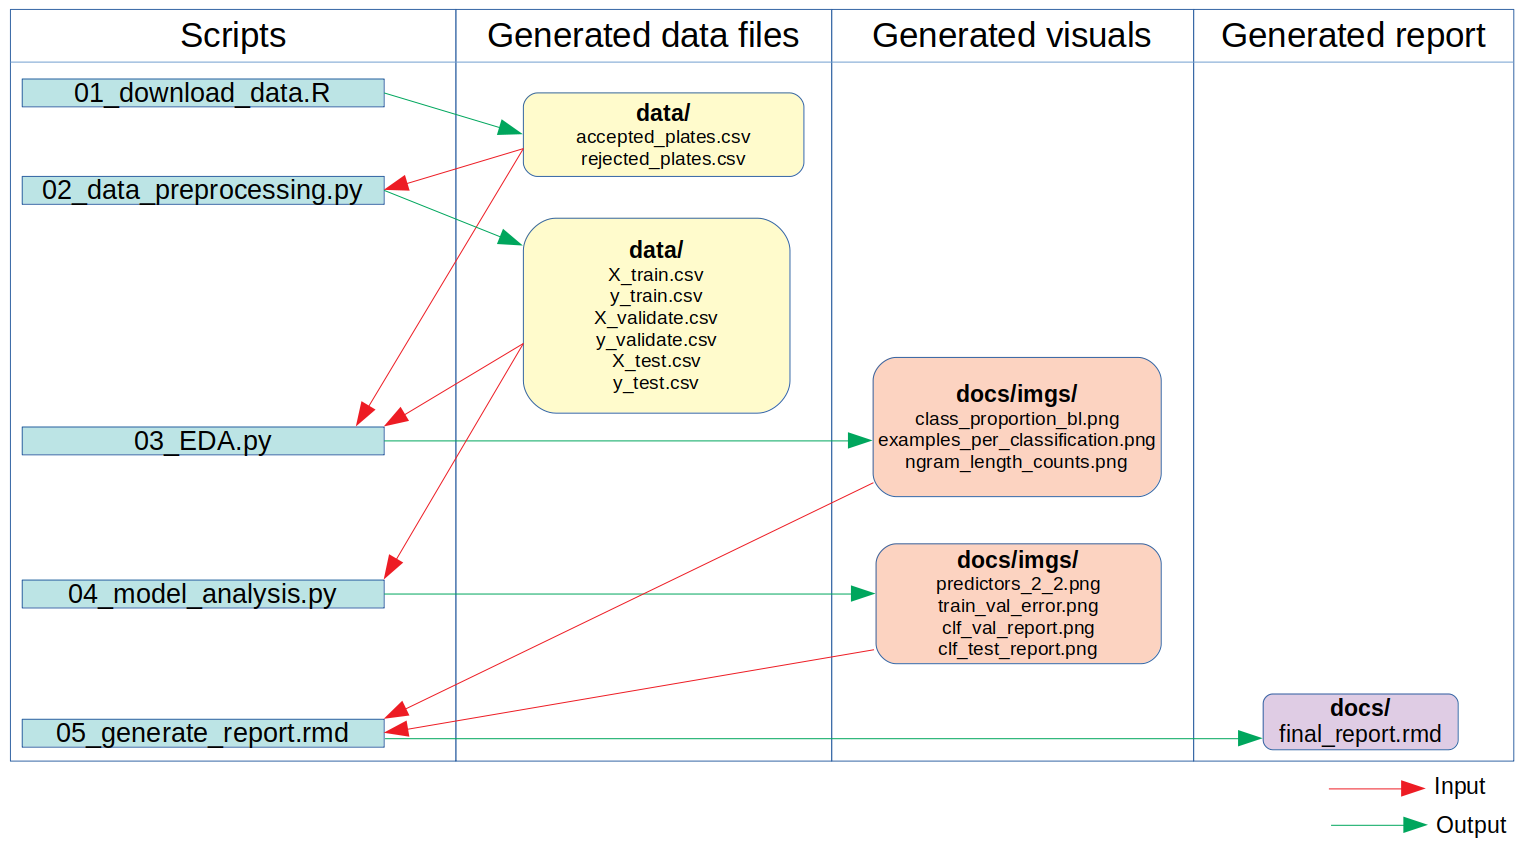
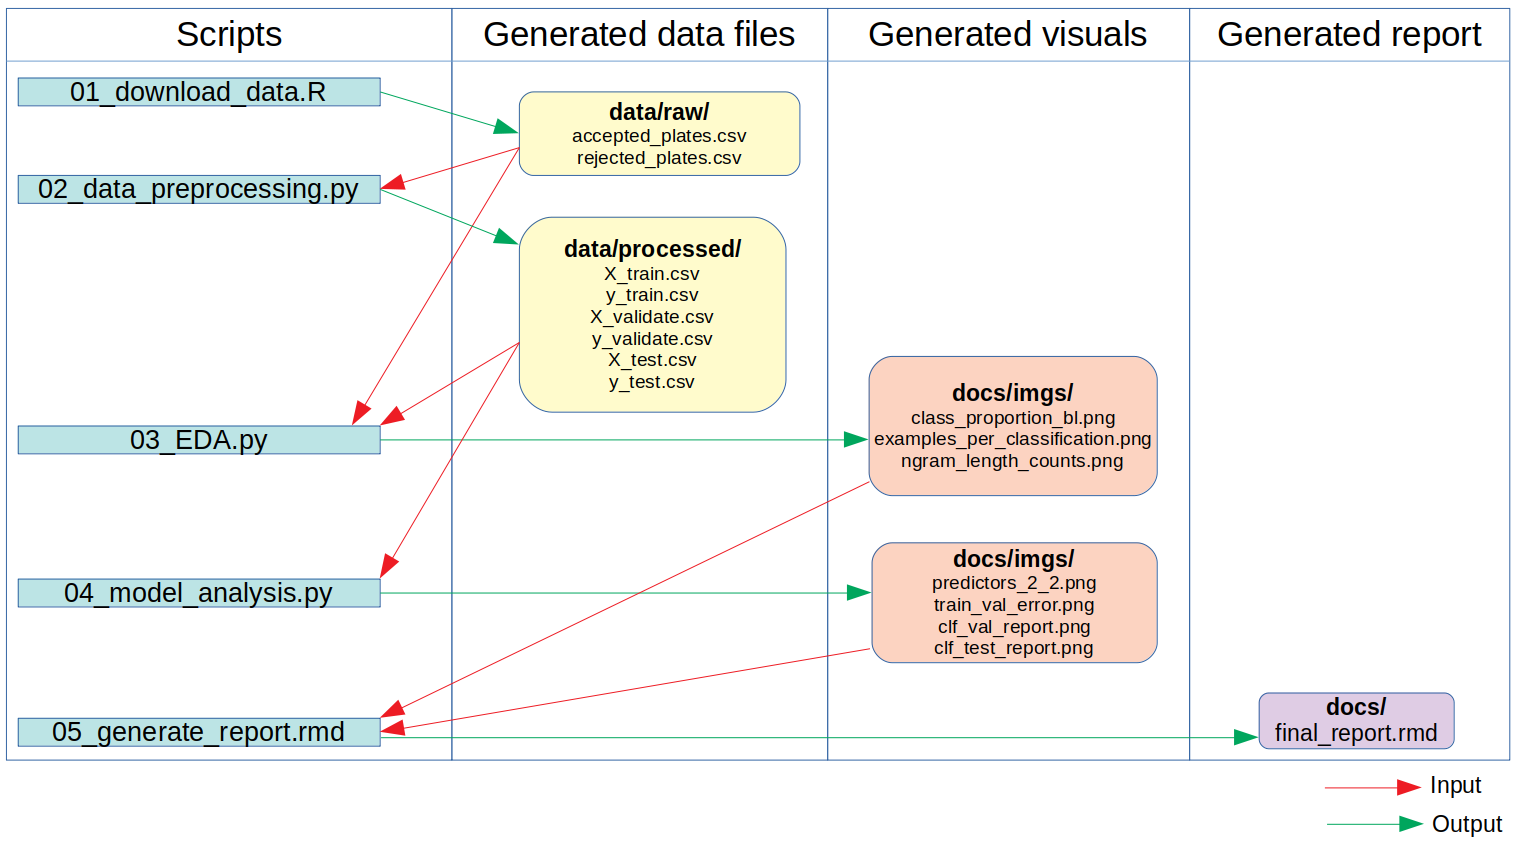
updates to scripts to reference different data folders, strongest predictors, visualizations

diff --git a/scripts/04_data_model.py b/scripts/04_data_model.py
@@ -34,7 +34,7 @@ opt = docopt(__doc__)
 def main(file_path_read, filename_x_train, filename_x_validate, filename_x_test, filename_y_train, filename_y_validate, filename_y_test, file_path_write):
   
     # Read csv files of X and y components of data
-    # file_path_read = 'data/'
+    # file_path_read = 'data/processed/'
     # filename_x_train = 'X_train.csv'
     # filename_x_validate = 'X_validate.csv'
     # filename_x_test = 'X_test.csv'
@@ -43,7 +43,7 @@ def main(file_path_read, filename_x_train, filename_x_validate, filename_x_test,
     # filename_y_test = 'y_test.csv'
     # file_path_write = 'results/'
     
-    # command line usage: python scripts/04_data_model.py --file_path_read="data/" --filename_x_train="X_train.csv" --filename_x_validate="X_validate.csv" --filename_x_test="X_test.csv" --filename_y_train="y_train.csv" --filename_y_validate="y_validate.csv" --filename_y_test="y_test.csv" --filename_path_write="results/"
+    # command line usage: python scripts/04_data_model.py --file_path_read="data/processed/" --filename_x_train="X_train.csv" --filename_x_validate="X_validate.csv" --filename_x_test="X_test.csv" --filename_y_train="y_train.csv" --filename_y_validate="y_validate.csv" --filename_y_test="y_test.csv" --filename_path_write="results/"
     
     # read the training, testing, and validation data
     X_train = np.squeeze(pd.read_csv(file_path_read+filename_x_train, index_col=0))
@@ -55,6 +55,14 @@ def main(file_path_read, filename_x_train, filename_x_validate, filename_x_test,
     y_validate = np.squeeze(pd.read_csv(
         file_path_read+filename_y_validate, index_col=0))
     y_test = np.squeeze(pd.read_csv(file_path_read+filename_y_test, index_col=0))
+    
+    # Test that data read in is correct to reproduce results
+    assert X_train.shape == (2332,), "X_train is incorrect shape"
+    assert sum(X_train.index) == 87392513, "X_train has incorrect observations"
+    assert y_train.shape == (2332,), "y_train is incorrect shape"
+    assert X_validate.shape == (584,), "X_validate has incorrect shape"
+    assert sum(X_validate.index) == 21381421, "X_validate has correct observations"
+    assert y_validate.shape == (584,),"y_validate has incorrect shape"
 
 
     pipeline = Pipeline(steps=[
@@ -99,22 +107,28 @@ def main(file_path_read, filename_x_train, filename_x_validate, filename_x_test,
     line = alt.Chart(tr_v_plot_df).mark_line().encode(
         x = alt.X('Number of Features:Q'),
         y = alt.Y('value:Q', title = 'Accuracy score'),
-        color = 'variable:N'
+        color = alt.Color('variable:N', legend = alt.Legend(title = "", orient = 'bottom'))
         )
 
     point = alt.Chart(tr_v_plot_df).mark_point().encode(
         x = alt.X('Number of Features:Q'),
         y = alt.Y('value:Q', title = 'Accuracy score'),
-        color = 'variable:N'
+        color = alt.Color('variable:N', legend = alt.Legend(title = ""))
         )
 
-    text = alt.Chart(tr_v_plot_df.query('variable == "Cross-Val Training error (cv = 10)"')).mark_text(dy = 13).encode(
+    text = alt.Chart(tr_v_plot_df.query('variable == "Cross-Val Training error (cv = 10)"')
+    ).mark_text(dy = 13
+    ).encode(
         x = alt.X('Number of Features:Q'),
         y = alt.Y('value:Q', title = 'Accuracy score'),
         text = alt.Text('n-gram_range:N'))
 
-    (line + point + text).properties(width = 700,
-         background = 'white').save(file_path_write + 'train_val_error.png', scale_factor = 2)
+    (line + point + text).configure_axis(labelFontSize=15,titleFontSize=15
+        ).configure_header(labelFontSize=15
+        ).configure_title(fontSize=20, anchor = 'middle'
+        ).properties(width = 700,
+         background = 'white', title = 'Training and Validation Error by n-gram Range and Number of Features'
+         ).save(file_path_write + 'train_val_error.png', scale_factor = 2)
 
     # Train model with chosen n-gram length range (2,2)
     cv_mnb = CountVectorizer(analyzer = 'char', ngram_range = (2,2))
@@ -127,7 +141,7 @@ def main(file_path_read, filename_x_train, filename_x_validate, filename_x_test,
 
     clf_val_report = classification_report(
     y_validate, mnb.predict(X_val_t), output_dict=True)
-    clf_val_report_df = pd.DataFrame(clf_val_report).transpose()
+    clf_val_report_df = pd.DataFrame(clf_val_report).transpose().round(3)
     clf_val_report_df = clf_val_report_df.iloc[:3, :-1]
 
     # export cl_val_report_df and predictor_df as image file
@@ -141,7 +155,7 @@ def main(file_path_read, filename_x_train, filename_x_validate, filename_x_test,
     # Test scores
     clf_test_report = classification_report(
     y_test, mnb.predict(X_test_t), output_dict=True)
-    clf_test_report_df = pd.DataFrame(clf_test_report).transpose()
+    clf_test_report_df = pd.DataFrame(clf_test_report).transpose().round(3)
     clf_test_report_df = clf_test_report_df.iloc[:3, :-1]
     clf_test_report_df
 
@@ -155,6 +169,8 @@ def main(file_path_read, filename_x_train, filename_x_validate, filename_x_test,
     # Export tables with strongest predictors for various n-gram ranges
     ng_l_best = [(2,2), (3,3), (4,4)]
 
+    ng_l_best = [(2,2)]
+    
     for ng in ng_l_best:
         cv_mnb = CountVectorizer(analyzer = 'char', ngram_range = ng)
         X_train_t = cv_mnb.fit_transform(X_train)
@@ -165,24 +181,19 @@ def main(file_path_read, filename_x_train, filename_x_validate, filename_x_test,
         vocab = cv_mnb.get_feature_names()
         weights = mnb.coef_.flatten()
         feat_df = pd.DataFrame({'features':vocab, 'weights':weights})
-        # Find most negative weight
-        least_coef = min(feat_df['weights'])
-        # check how many features share that weight
-        print("Number of features tied for strongest predictor:", len(feat_df.query('weights == '+str(least_coef))))
-        negative = feat_df.query('weights == '+str(least_coef))[['features']].sample(n = 50, random_state = 415).reset_index(drop=True)
-        #negative = negative.sample(n = 50).reset_index(drop=True)
-        features_100 = pd.concat([negative.iloc[:10].reset_index(drop = True),
-            negative.iloc[10:20].reset_index(drop = True),
-            negative.iloc[20:30].reset_index(drop = True),
-            negative.iloc[30:40].reset_index(drop = True),
-            negative.iloc[40:50].reset_index(drop = True)], axis = 1)
-        file_name_html = file_path_write + 'predictors'+str(ng)[1]+'_'+str(ng)[-2]+'.html'
+        # Find most positive weight (where 'accepted' is the negative class, and 'rejected' is positive)
+        max_coef = max(feat_df['weights'])
+        positive = feat_df.sort_values(by = 'weights', ascending = False)['features'].head(50).reset_index(drop = True)
+        features_50 = pd.concat([positive.iloc[:10].reset_index(drop = True),
+            positive.iloc[10:20].reset_index(drop = True),
+            positive.iloc[20:30].reset_index(drop = True),
+            positive.iloc[30:40].reset_index(drop = True),
+            positive.iloc[40:50].reset_index(drop = True)], axis = 1)
+        file_name_html = file_path_write + 'predictors_'+str(ng)[1]+'_'+str(ng)[-2]+'.html'
         file_name_png = file_path_write + 'predictors_'+str(ng)[1]+'_'+str(ng)[-2]+'.png'
-        features_100.to_html(file_name_html, index = False, header = False)
+        features_50.to_html(file_name_html, index = False, header = False)
         subprocess.call(
-            ['wkhtmltoimage -f png --width 0 ' + file_name_html + " " + file_name_png], shell=True)
-
-    
+             ['wkhtmltoimage -f png --width 0 ' + file_name_html + " " + file_name_png], shell=True)
   
 if __name__ == "__main__":
     main(opt["--file_path_read"],

diff --git a/scripts/03_EDA.py b/scripts/03_EDA.py
@@ -15,10 +15,11 @@
   folder. 
 
 
-Usage: scripts/03_EDA.py --file_path_data=<file_path_data> --accepted_plates_csv=<accepted_plates_csv> --rejected_plates_csv=<rejected_plates_csv> --reduced_plate_csv=<reduced_plate_csv> --X_train_csv=<X_train_csv> --y_train_csv=<y_train_csv> --file_path_img=<file_path_img>
+Usage: scripts/03_EDA.py --file_path_raw=<file_path_data> --file_path_pro=<file_path_pro> --accepted_plates_csv=<accepted_plates_csv> --rejected_plates_csv=<rejected_plates_csv> --reduced_plate_csv=<reduced_plate_csv> --X_train_csv=<X_train_csv> --y_train_csv=<y_train_csv> --file_path_img=<file_path_img>
 
 Options:
---file_path_data=<file_path_data>  Path to data folder of .csv files
+--file_path_raw=<file_path_data>  Path to raw data folder of .csv files
+--file_path_pro=<file_path_pro> Path to processed data folder
 --accepted_plates_csv=<accepted_plates_csv> filename of .csv with all accepted plates
 --rejected_plates_csv=<rejected_plates_csv> filename of .csv with all negative plates
 --reduced_plate_csv=<reduced_plate_csv> filename of .csv of undersampled accepted plates combined with rejected plates
@@ -27,7 +28,8 @@ Options:
 --file_path_img=<file_path_img> filepath to folder where images should be stored
 '''
 
-# file_path_data = 'data/'
+# file_path_raw = 'data/raw/'
+# file_path_pro='data/processed/'
 # accepted_plates_csv = 'accepted_plates.csv'
 # rejected_plates_csv = 'rejected_plates.csv'
 # reduced_plate_csv = 'full_vanity_plate_data.csv'
@@ -47,13 +49,13 @@ from docopt import docopt
 
 opt = docopt(__doc__)
 
-def main(file_path_data, accepted_plates_csv, rejected_plates_csv, reduced_plate_csv, X_train_csv, y_train_csv, file_path_img):
+def main(file_path_raw, file_path_pro, accepted_plates_csv, rejected_plates_csv, reduced_plate_csv, X_train_csv, y_train_csv, file_path_img):
     # Load datasets
-    full_rejected = pd.read_csv(file_path_data + rejected_plates_csv)
-    full_accepted = pd.read_csv(file_path_data + accepted_plates_csv)
-    reduced_plate_df=pd.read_csv(file_path_data + reduced_plate_csv)
-    X_train = pd.read_csv(file_path_data + X_train_csv, usecols = ['plate'])
-    y_train = pd.read_csv(file_path_data + y_train_csv, usecols = ['outcome'])
+    full_rejected = pd.read_csv(file_path_raw + rejected_plates_csv)
+    full_accepted = pd.read_csv(file_path_raw + accepted_plates_csv)
+    reduced_plate_df=pd.read_csv(file_path_pro + reduced_plate_csv)
+    X_train = pd.read_csv(file_path_pro + X_train_csv, usecols = ['plate'])
+    y_train = pd.read_csv(file_path_pro + y_train_csv, usecols = ['outcome'])
 
     # Transform X_train dataset using countvectorizer
     cv = CountVectorizer(analyzer = 'char', ngram_range=(2,8))
@@ -63,7 +65,7 @@ def main(file_path_data, accepted_plates_csv, rejected_plates_csv, reduced_plate
     # fit and transform X_train via CountVectorizer
     X_train_transformed = cv.fit_transform(X_train['plate'])
     # Make sure transformed data is correct shape
-    assert X_train_transformed.shape == (2332, 25889), 'sparse matrix should be of shape 2332 x 25889'
+    assert X_train_transformed.shape == (2332, 25889), 'sparse matrix should be of shape 2332 x 25889 to reproduce results'
 
     # Explore full dataset of all rejected and accepted plates
     # Create outcome column
@@ -96,16 +98,16 @@ def main(file_path_data, accepted_plates_csv, rejected_plates_csv, reduced_plate
 
     n_g_len_chart = (alt.Chart(counts.query('ng_length%2 == 0')).mark_bar().encode(
             x = alt.X('counts:O', 
-                title = "Frequency of appearance in plates"),
+                title = "Frequency of given ngram in training data"),
                 #scale=alt.Scale(domain = (0,89))),
-            y = alt.Y("count()", scale=alt.Scale(type='log', base=10), title = 'Count'),
+            y = alt.Y("count()", scale=alt.Scale(type='log', base=10), title = 'Ngrams with X Freq.'),
             facet = alt.Facet('ng_length:N', title = 'n-gram length')
-        ).configure_axis(labelFontSize=15,titleFontSize=20
-        ).configure_header(labelFontSize=14
+        ).configure_axis(labelFontSize=15,titleFontSize=10
+        ).configure_header(labelFontSize=15
         ).configure_title(fontSize=20, anchor = 'middle'
-        ).properties(title = "Counts of n-grams by length", 
+        ).properties(title = "Counts of n-gram frequency by length", 
                     width = 400, 
-                    height = 70, 
+                    height = 80, 
                     columns = 1,
                     background = 'white'))
 
@@ -184,7 +186,8 @@ def p_chart_grid(df, i):
                     height = 200, title = "Length "+i))
                 
 if __name__ == "__main__":
-    main(opt["--file_path_data"], 
+    main(opt["--file_path_raw"],
+    opt["--file_path_pro"],
     opt["--accepted_plates_csv"], 
     opt["--rejected_plates_csv"], 
     opt["--reduced_plate_csv"],

diff --git a/scripts/02_data_processing.py b/scripts/02_data_processing.py
@@ -9,10 +9,11 @@
  a file_path for the .csv data files, 2 filenames for the 
  unprocessed data and a filename for the reduced dataset.
 
-Usage: scripts/02_data_processing.py --file_path=<file_path> --accepted_plates_csv=<accepted_plates_csv> --rejected_plates_csv=<rejected_plates_csv> --reduced_plates_csv=<reduced_plates_csv> 
+Usage: scripts/02_data_processing.py --file_path_read=<file_path_read> --file_path_write=<file_path_write>  --accepted_plates_csv=<accepted_plates_csv> --rejected_plates_csv=<rejected_plates_csv> --reduced_plates_csv=<reduced_plates_csv> 
 
 Options:
---file_path=<file_path>  Path to data folder of .csv files
+--file_path_read=<file_path_write>  Path to raw data folder of .csv files
+--file_path_write=<file_path_write> Path to processed data folder
 --accepted_plates_csv=<accepted_plates_csv> filename of .csv with positive target observations
 --rejected_plates_csv=<rejected_plates_csv> filename of .csv with negative target observations
 --reduced_plates_csv=<reduced_plates_csv> filename of .csv containing combined and reduced data
@@ -28,18 +29,19 @@ from docopt import docopt
 
 opt = docopt(__doc__)
 
-def main(file_path, accepted_plates_csv, rejected_plates_csv, reduced_plates_csv):
+def main(file_path_read, file_path_write, accepted_plates_csv, rejected_plates_csv, reduced_plates_csv):
 
   # Read in csv files and add outcome column as either "accepted" or "rejected"
   # for each csv
-  # file_path = 'data/'
+  # file_path_read = 'data/raw/'
+  # file_path_write = 'data/processed/'
   # accepted_plates_csv = 'accepted_plates.csv'
   # rejected_plates_csv = 'rejected_plates.csv'
   # reduced_plate_csv = 'full_vanity_plate_data.csv'
   
-  accepted_df =pd.read_csv(file_path + accepted_plates_csv, index_col = 0)
+  accepted_df =pd.read_csv(file_path_read + accepted_plates_csv, index_col = 0)
   accepted_df['outcome'] = 'accepted'
-  rejected_df = pd.read_csv(file_path + rejected_plates_csv, index_col = 0)
+  rejected_df = pd.read_csv(file_path_read + rejected_plates_csv, index_col = 0)
   rejected_df['outcome'] = 'rejected'
   
   # Undersample accepted observations (by taking random sample of 2000)
@@ -52,7 +54,7 @@ def main(file_path, accepted_plates_csv, rejected_plates_csv, reduced_plates_csv
   
   # combine dataframe and save
   combo_df = reduced_accepted.append(rejected_df)
-  combo_df.to_csv(file_path + reduced_plates_csv)
+  combo_df.to_csv(file_path_write + reduced_plates_csv)
   
   # split data into train and test sets
   X = combo_df['plate']
@@ -66,13 +68,13 @@ def main(file_path, accepted_plates_csv, rejected_plates_csv, reduced_plates_csv
   X_train, X_validate, y_train, y_validate = train_test_split(X_train, y_train, test_size = 0.2, random_state = 415)
   
   # export split datasets to csv
-  X_train.to_csv(file_path + 'X_train.csv', header = True)
-  X_validate.to_csv(file_path + 'X_validate.csv', header = True)
-  X_test.to_csv(file_path + 'X_test.csv', header = True)
-  y_train.to_csv(file_path + 'y_train.csv', header = True)
-  y_validate.to_csv(file_path + 'y_validate.csv', header = True)
-  y_test.to_csv(file_path + 'y_test.csv', header = True)
+  X_train.to_csv(file_path_write + 'X_train.csv', header = True)
+  X_validate.to_csv(file_path_write + 'X_validate.csv', header = True)
+  X_test.to_csv(file_path_write + 'X_test.csv', header = True)
+  y_train.to_csv(file_path_write + 'y_train.csv', header = True)
+  y_validate.to_csv(file_path_write + 'y_validate.csv', header = True)
+  y_test.to_csv(file_path_write + 'y_test.csv', header = True)
 
 
 if __name__ == "__main__":
-    main(opt["--file_path"], opt["--accepted_plates_csv"], opt["--rejected_plates_csv"], opt["--reduced_plates_csv"])
+    main(opt["--file_path_read"], opt["--file_path_write"], opt["--accepted_plates_csv"], opt["--rejected_plates_csv"], opt["--reduced_plates_csv"])
